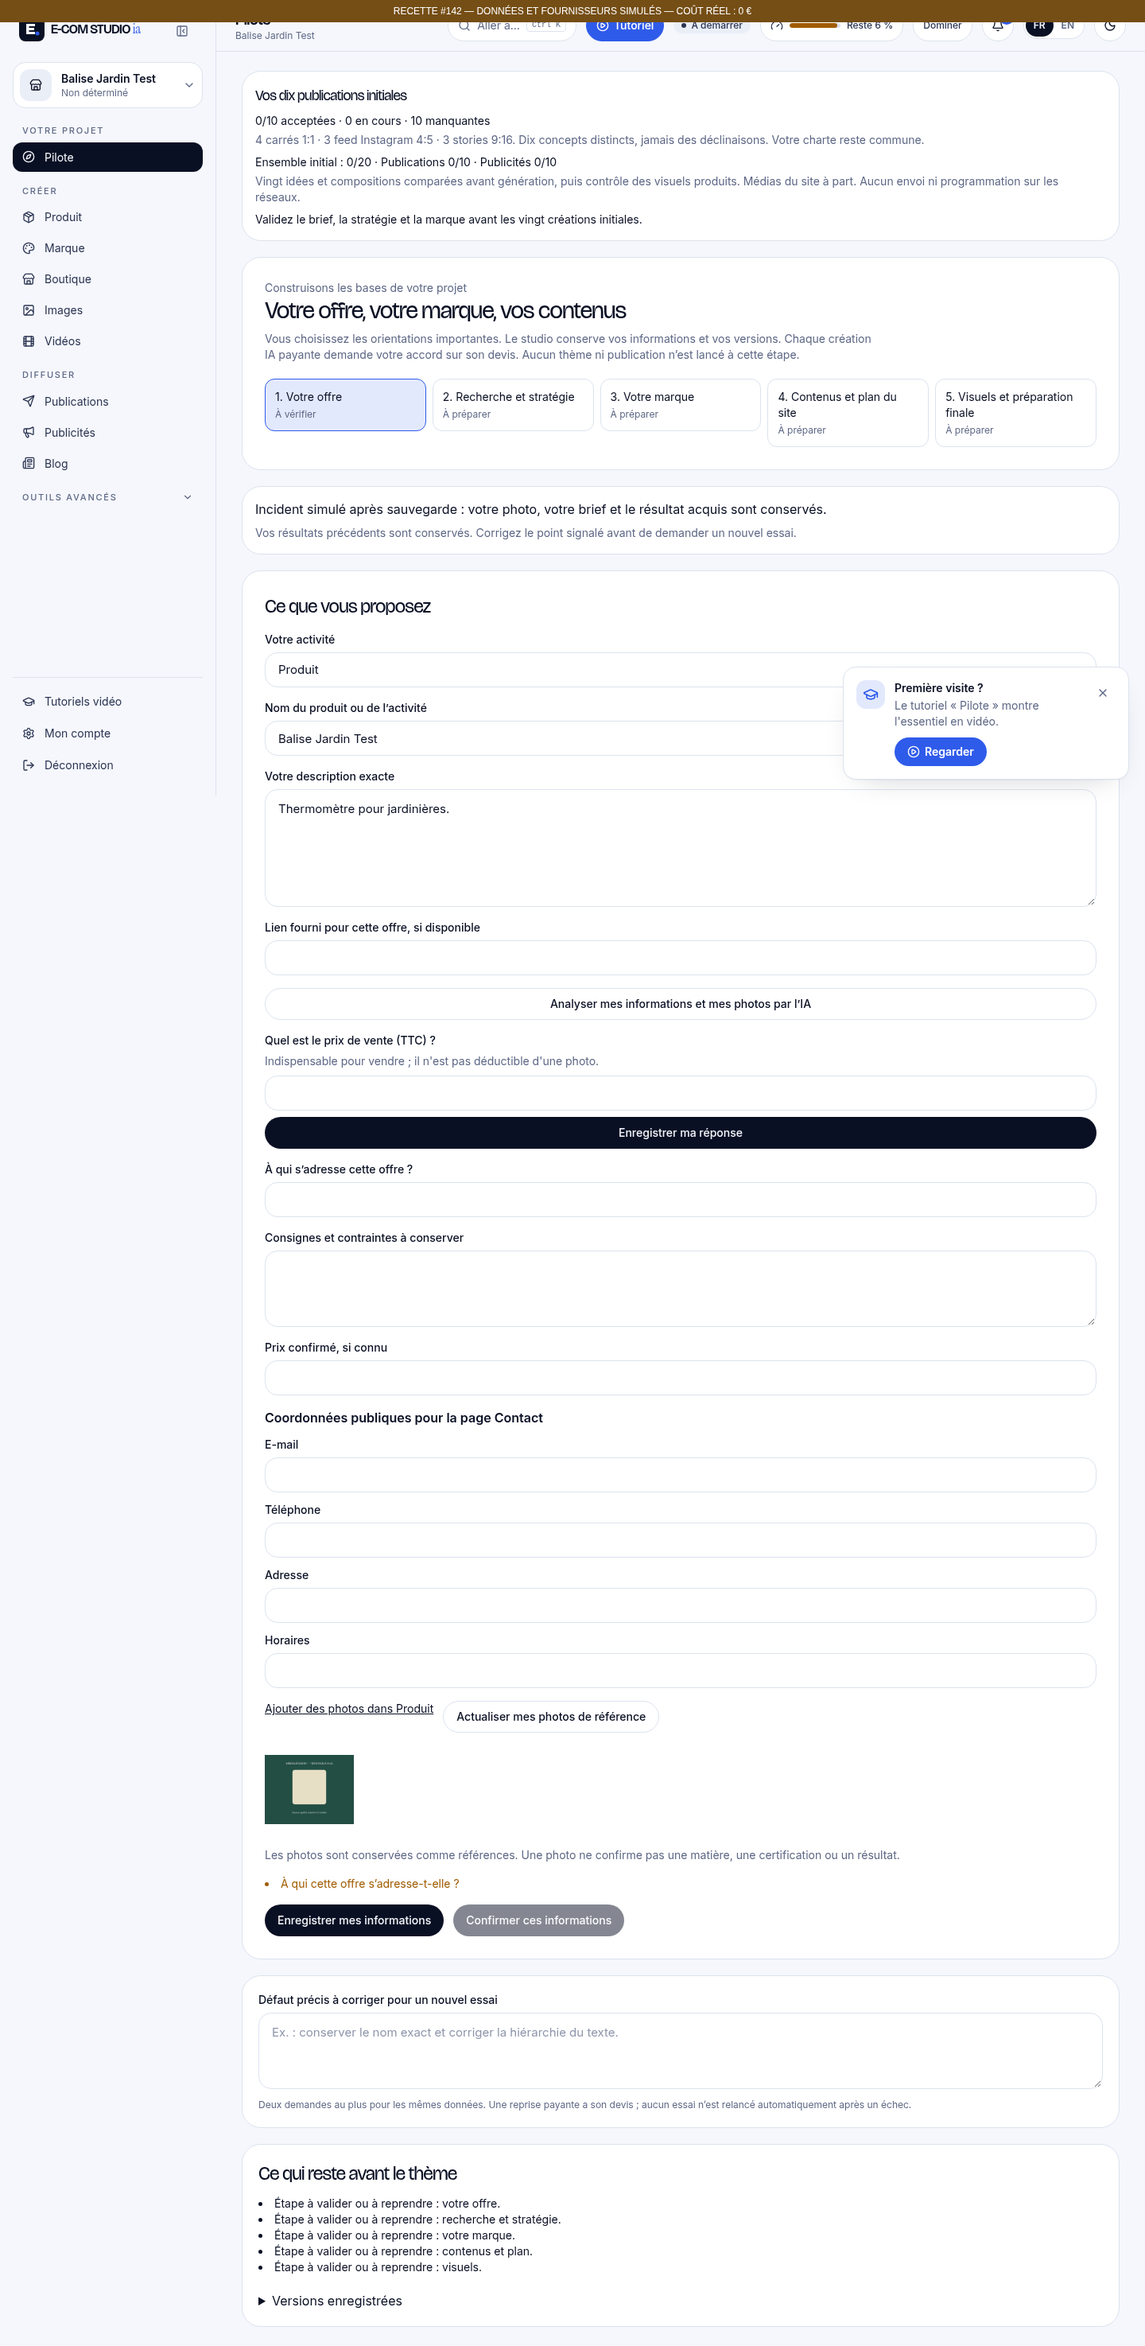
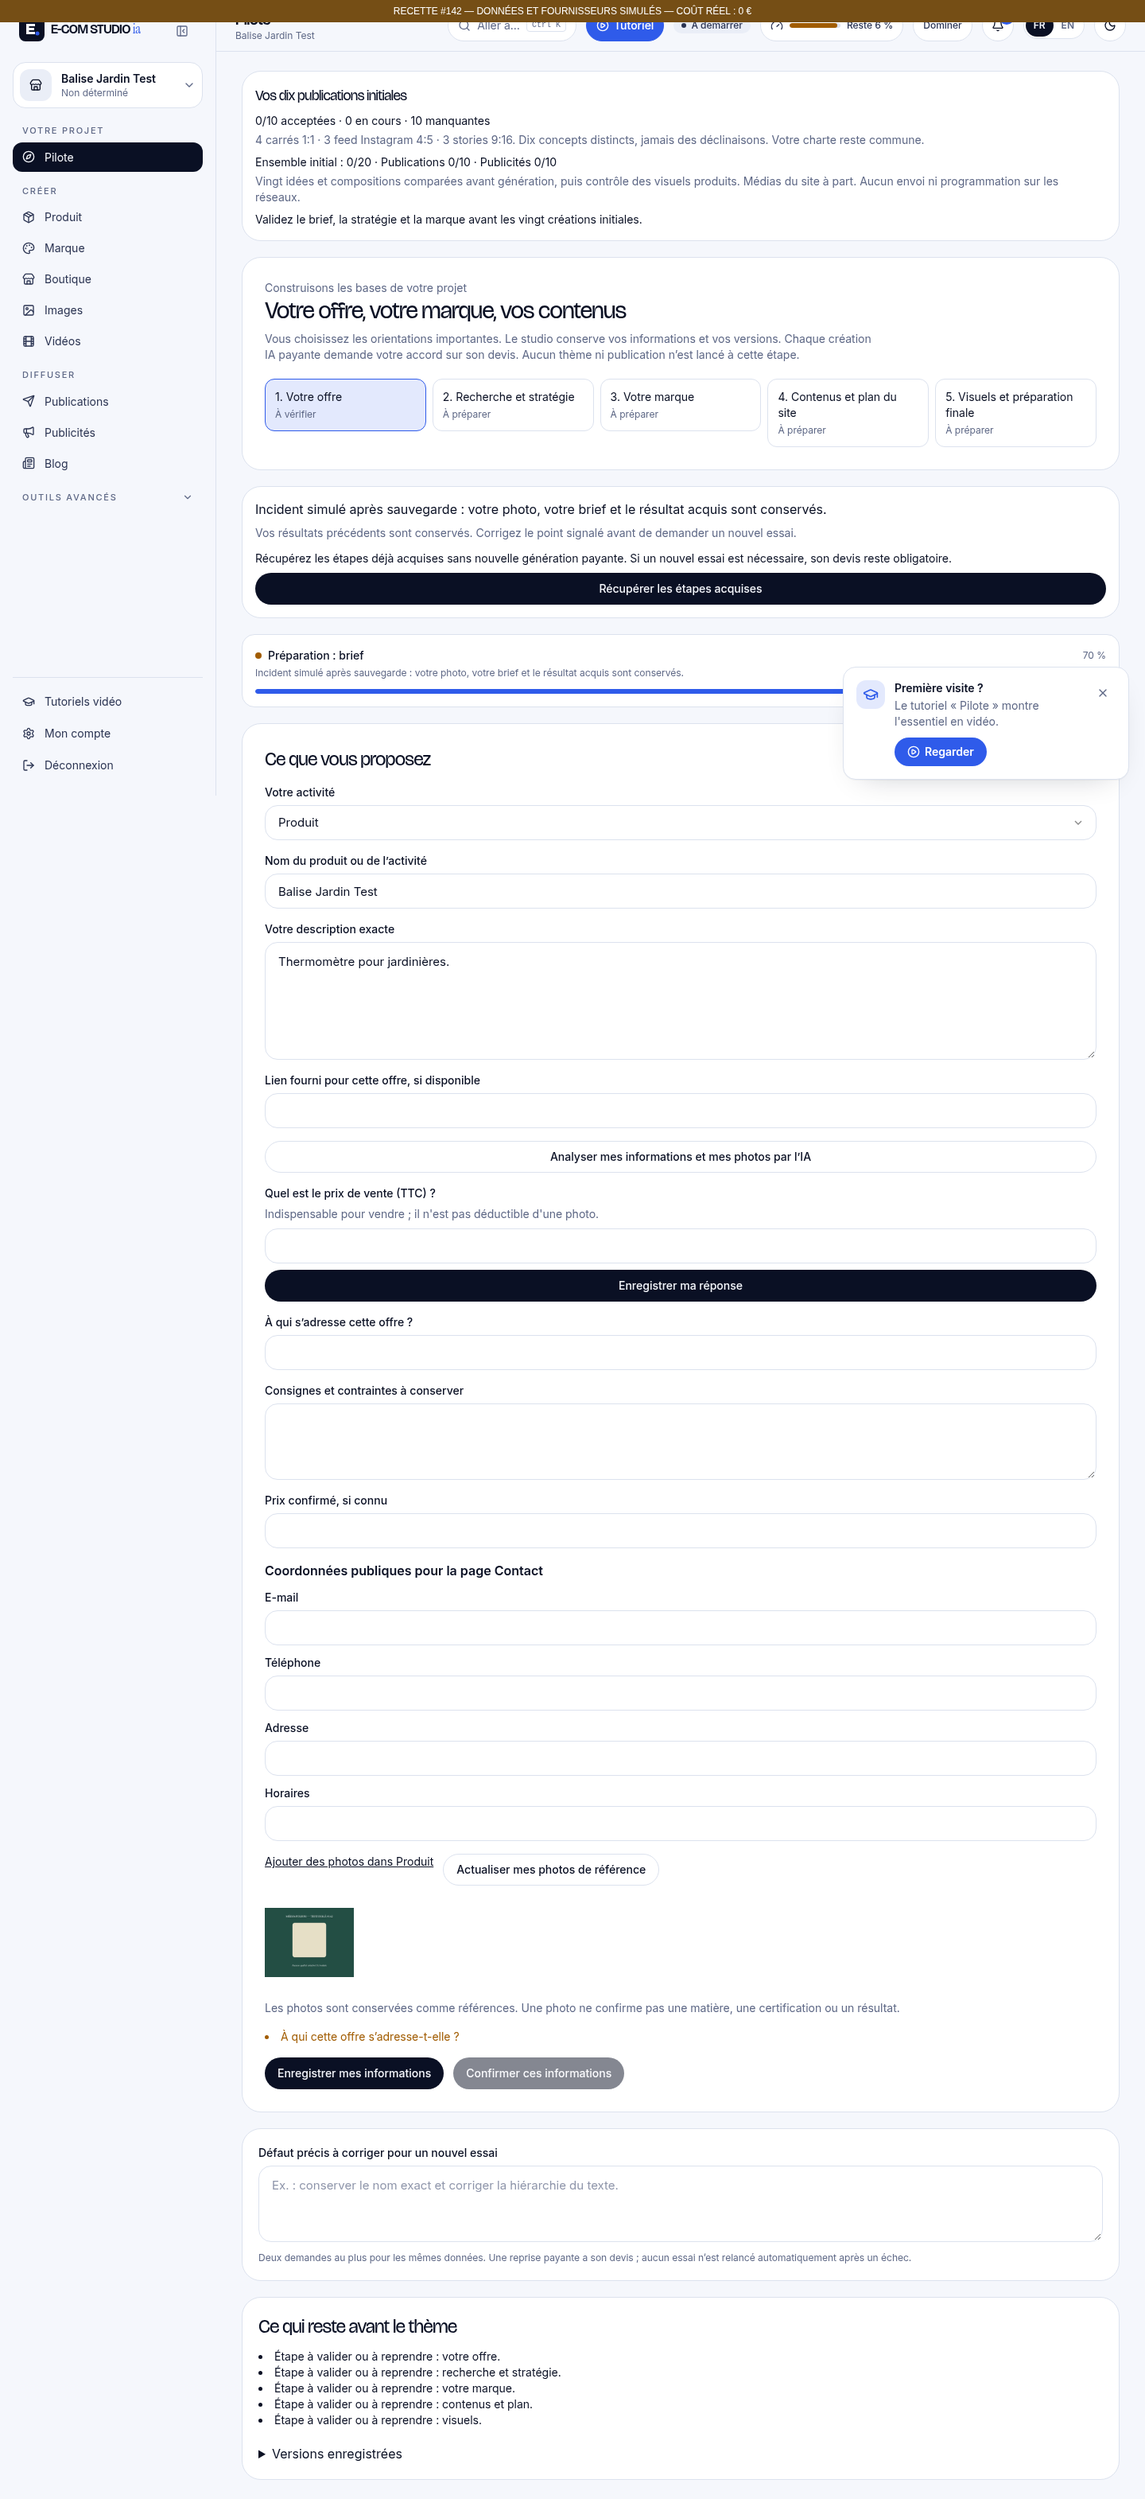
Publier la reprise client vérifiée et cadrer l’audit IA étendu

diff --git a/docs/coordination/ISSUE_142_RESULTATS.md b/docs/coordination/ISSUE_142_RESULTATS.md
@@ -2,11 +2,17 @@
 
 Livraison de corrections sur `codex/142-budgets-suivi-reprise`, sans fusion, déploiement ni mise à jour du Codespace. Mission : [issue #142](https://github.com/spacedevelopment01-max/Ecom-studio-ia/issues/142), confirmée par le [commentaire de coordination de #140](https://github.com/spacedevelopment01-max/Ecom-studio-ia/pull/140#issuecomment-6274653623).
 
+## Extension de mission — état intermédiaire
+
+Le [complément 6287157369](https://github.com/spacedevelopment01-max/Ecom-studio-ia/issues/142#issuecomment-6287157369) demande maintenant la vérification de tous les parcours IA et donne priorité à une publicité image atteignant 100 % sans image livrée. **Le présent rapport valide le volet budgets/préparation/reprise, pas toute la chaîne IA ni cet incident réel.** La matrice fonctionnelle, le diagnostic et les corrections de livraison sont poursuivis sur la même PR #146.
+
+Accès au Codespace retenté le 20 octobre à 09:28 UTC : refus du proxy **CONNECT 403**, avant accès à l’application. Aucun journal de cet incident n’a donc été lu et aucune cause réelle n’est affirmée à partir des simulations. Un diagnostic local, sans relance fournisseur et sans sortie de données privées vers GitHub, est à fournir. La frontière de coordination actuelle est **Claude #145** : sections, quatre thèmes validés, headers/footers et leurs rendus restent hors de ce chantier.
+
 ## Version et frontière d’intégration
 
 - Base : **482d5d3d2f3fa49073d836c23b2453f15ab5046d**, livraison figée de #140. Ce commit n’a pas été déplacé par Codex.
 - Premiers correctifs publiés : **9c4e4f2437414b8ae278e4ad1f4b7d443d79891f**, puis **0591a94d071b79eb9b4659100bc41bc38a343e6c**.
-- Code final testé et construit : **e10847a17d4e14d7e9dd809518449f5e420731c1**. Les commits suivants ne contiennent que la recette, les preuves et ce rapport. PR de livraison : [#146](https://github.com/spacedevelopment01-max/Ecom-studio-ia/pull/146).
+- Code final testé et construit : **8b8f8b0b9b97581061e683f57c990deb077ffbbb**. La réception initiale e10847a1 / 1ac72548 reste conservée dans l’historique. Le complément 8b8f8b0b ferme la reprise depuis l’écran client ; les commits suivants ne modifient que les preuves et ce rapport. PR de livraison : [#146](https://github.com/spacedevelopment01-max/Ecom-studio-ia/pull/146).
 - PR distincte vers `main`. Relevé distant du 20 octobre : `main` = **d97e0b9577128eeb39b403dae281da6bd835fc65**, intégration réalisée par Claude via #144 ; #140 et #139 sont déjà fusionnées. L’ancêtre commun avec cette branche reste **482d5d3d** : le delta de PR contient seulement #142, sans reprise d’une tête Claude ni rebase silencieux. La branche source figée de #140 a été supprimée à distance après intégration ; le commit reste accessible dans la PR et l’historique.
 - Aucun changement dans `theme-base/`, `src/lib/theme/`, les compositions, médias, bibliothèques de sections ou headers/footers. Aucun travail de #141 récupéré. Les quatre thèmes restent sous la responsabilité de Claude.
 
@@ -22,7 +28,7 @@ Les réservations, portefeuilles, prix, traces, checkpoints, baux des workers et
 | `llmText` / `llmJson`, adaptateurs texte et `media-providers.traced` | **REPRODUIT, fournisseurs simulés** : dédupliquer seulement l’imputation ne prévenait pas un deuxième envoi payant ; certaines erreurs serveur libéraient un coût incertain. | Reçu et résultat sur la réservation native ; même requête rejouée depuis le résultat, envoi concurrent bloqué avant fournisseur ; erreur ambiguë conservatrice. Changement de requête sous la même clé refusé explicitement. |
 | Dépôts et téléchargements asynchrones vidéo/image | **REPRODUIT, fournisseurs simulés** : après résultat acquis mais téléchargement perdu, risque de nouveau dépôt ; ancien suivi non limité au compte. | Identifiant d’opération conservé immédiatement, récupération de la même opération sans nouveau POST ni nouvelle réserve, rapprochement du résultat tardif. Prix servi inconnu : arrêt explicite, jamais coût zéro inventé. |
 | `jobs.enqueue`, dépendances, `completeJob`, `JobContext` | **REPRODUIT, simulation isolée** : clé commune entre comptes, dépendance disparue bloquée sans issue, notification répétée, ancien contexte écrivant après arrêt, date de fin conservée à la relance. | Portée compte/projet/type, dépendances invalides expliquées, transition conditionnelle avant notification, contrôle du bail et de l’état, relance avec checkpoints et date cohérente. [Avant](../../reports/issue142/tests/jobs-avant.txt). |
-| Préparation, route GET propriétaire, `tab-preparation`, `JobProgress`, `WaitTime` | **REPRODUIT en tests et navigateur isolé** : retry du même travail invalidé par sa propre révision d’erreur ; spinner et message « en cours » après arrêt ; progression fabriquée par une minuterie. | Reprise du même job/révision inchangée, édition client protégée ; statut réel joint à la préparation ; attente temporelle explicitement estimée, barre seulement si progression enregistrée. `blockers()` distingue pause/arrêt/activité réelle. |
+| Préparation, route GET propriétaire, `tab-preparation`, `JobProgress`, `WaitTime` | **REPRODUIT en tests et navigateur isolé** : retry du même travail invalidé par sa propre révision d’erreur ; spinner et message « en cours » après arrêt ; progression fabriquée par une minuterie. | Reprise du même job/révision inchangée, édition client protégée ; bouton de récupération depuis le client, aucune nouvelle réservation pendant cette action ; statut réel joint à la préparation ; attente temporelle explicitement estimée, barre seulement si progression enregistrée. `blockers()` distingue pause/arrêt/activité réelle. |
 | Budget affiché dans compte et abonnement projet | **REPRODUIT en tests et navigateur isolé** : réserve temporaire présentée comme « 100 % dépensé ». | Montant engagé distinct du montant consommé, message d’attente temporaire. Aucun changement des règles de forfait. |
 | Réécriture SEO volontaire hors job | **REPRODUIT en régression Lot 1** : clé constante réutilisée pour deux réécritures différentes. | Identifiant propre à chaque nouvelle demande explicite ; reprise d’un même job stable. Test vérifie deux acquisitions distinctes et la conservation de la version client. |
 | Mixage local `video-v2/audio.ts` | **REPRODUIT avec FFmpeg réel, sans fournisseur** : musique bouclée pouvait maintenir le démultiplexeur actif malgré le découpage en aval, notamment avec six voix ; worker bloqué. | La première borne d’entrée seule s’est révélée insuffisante en suite complète. Mixage des voix, atténuation de la musique et mix final séparés, fichiers intermédiaires finis en flottant puis supprimés ; durée/signal/niveau/crête contrôlés sans augmenter les délais. La reproduction en étapes a terminé 20 répétitions (environ une seconde chacune). [Comparaison](../../reports/issue142/tests/audio-stages-comparaison.json). |
@@ -46,9 +52,9 @@ Recette réelle de formulaires, routes, SQLite, médias et worker local ; seule 
 - Création, modification et sauvegarde ; fermeture du contexte navigateur puis reconnexion : brief exact et identifiant du média retrouvés.
 - Devis serveur, confirmation, réserve en cours, progression réellement enregistrée à 25 %, affichage du budget temporairement engagé.
 - Produit : incident injecté après résultat acquis. Service : arrêt réel du worker après checkpoint, expiration de son bail dans la base de test, nouveau worker et échec borné visible.
-- Reprise explicite par **l’API propriétaire native**, checkpoints réutilisés, aucune deuxième acquisition ni imputation. Cette recette ne prétend pas avoir testé un nouveau bouton de reprise dans l’interface.
+- Reprise par **un vrai clic sur « Récupérer les étapes acquises »**, dans l’écran de préparation des deux clients. Le bouton est désactivé si des retouches ne sont pas enregistrées ; une révision périmée est refusée (409). Checkpoints réutilisés, aucune deuxième acquisition ni imputation. Le garde serveur `recoveryOnly` interdit toute nouvelle réservation fournisseur, même si une sous-étape tente de retirer cette protection ; les dépendances susceptibles d’être payantes restent bloquées. Un résultat absent nécessite un nouvel essai avec devis, jamais une dépense cachée pendant la récupération.
 - Budget rendu insuffisant dans la fixture : devis refusé par le serveur (HTTP 422), erreur visible sans génération.
-- Depuis l’autre compte : préparation, jobs, abonnement, fichier et détail de job refusés (404), modification/retry également refusé.
+- Depuis l’autre compte : préparation, jobs, abonnement, fichier et détail de job refusés (404), modification/retry et récupération de préparation également refusés.
 - Ordinateur 1440 × 1000 et téléphone 390 × 844 ; absence de débordement horizontal et d’erreur JavaScript. Les détails manquants restent visibles, aucun projet complet annoncé prêt, aucun thème créé.
 
 Résultats machine : [parcours](../../reports/issue142/parcours/results.json) et [registre synthétique](../../reports/issue142/parcours/ledger-public.json). **Deux réservations et deux événements d’usage**, coût synthétique de 40 000 micro par projet (0,04 € fictif), soit **0,08 € synthétique** au total. Les plafonds réservés sont 2 800 000 et 3 400 000 micro. Les instantanés avant réservation, pendant l’engagement, après incident et après retry sont dans `results.json` ; les deux derniers sont strictement identiques. Les soldes mensuels comprennent des consommations préchargées par la fixture pour provoquer les états de budget : ils ne sont pas des dépenses réelles. **Coût fournisseur réellement engagé : 0 €**.
@@ -77,11 +83,12 @@ Commandes réellement exécutées sur le code final, dans l’environnement isol
 | Commande / contrôle | Résultat | Preuve |
 | --- | --- | --- |
 | `npx tsc --noEmit` | Réussi, zéro erreur (également après l’ajustement du script de mesure du devis public) | [Journal](../../reports/issue142/tests/types-final.txt) |
-| `npx vitest run --maxWorkers=2` | **2 405 réussis, 13 ignorés, 313 fichiers réussis**, 992,29 s | [Suite générale](../../reports/issue142/tests/suite-finale.txt) |
+| `npx vitest run --maxWorkers=2` | **2 409 réussis, 13 ignorés, 313 fichiers réussis**, 993,82 s | [Suite générale](../../reports/issue142/tests/suite-finale.txt) |
+| `npx vitest run tests/mission142-billing.test.ts tests/mission142-jobs.test.ts tests/mission142-preparation-reprise.test.ts tests/budget-ia.test.ts tests/taches-fond-robustesse.test.ts --maxWorkers=2` | **66 réussis / 5 fichiers**, acquisition manquante bloquée avant envoi, résultat texte natif réutilisé, garde conservé dans les sous-étapes, dépendances en attente protégées | [Reprise client](../../reports/issue142/tests/reprise-client-66.txt) |
 | `npx vitest run tests/trace-appels.test.ts tests/budget-ia.test.ts --maxWorkers=2` | 36 réussis / 2 fichiers | [Trace et budget](../../reports/issue142/tests/trace-36.txt) |
 | `npx vitest run tests/video-audio-termination.test.ts tests/video-v2-engine.test.ts tests/video-v2-bench.test.ts --maxWorkers=2` | 20 réussis / 3 fichiers | [Rendu réel local](../../reports/issue142/tests/audio-stages-20.txt) |
 | `npx vitest run tests/video-audio-termination.test.ts --maxWorkers=1` | 2 réussis ; 12 mixages, durée, niveau, crête, temporaires supprimés | [Dernier format audio intermédiaire](../../reports/issue142/tests/audio-flottant-2.txt) |
-| `npm run build`, données et clé de recette fictives, réseau fournisseur bloqué par le garde de démarrage | Réussi ; `/api/version` du serveur renvoie le SHA **e10847a1…** | [Construction](../../reports/issue142/tests/build-final.txt), `compiledVersion` du résultat navigateur |
+| `npm run build`, données et clé de recette fictives, réseau fournisseur bloqué par le garde de démarrage | Réussi ; `/api/version` du serveur renvoie le SHA **8b8f8b0b…** | [Construction](../../reports/issue142/tests/build-final.txt), `compiledVersion` du résultat navigateur |
 | `npx tsx scripts/mission142/harness.ts seed`, puis `npx tsx scripts/mission142/browser.ts` | Réussi, deux comptes neufs, deux projets, 20 captures, zéro appel externe réel | [Journal navigateur](../../reports/issue142/tests/navigateur-final.txt), [résultats](../../reports/issue142/parcours/results.json) |
 | `git diff --exit-code 482d5d3d HEAD -- theme-base src/lib/theme public/demo` | Réussi, aucun delta dans ces chemins | [Version et frontière](../../reports/issue142/version.json), [fichiers de code](../../reports/issue142/fichiers-code.txt) |
 
@@ -89,11 +96,11 @@ Autres contrôles ciblés réellement exécutés pendant la stabilisation : [118
 
 Historique explicite : une première suite complète avait 2 404 succès et un échec de l’ancien test de trace (il attendait deux envois sous la même clé). La réémission n’est plus attendue ; la fixture représente maintenant une trace ancienne sans reçu et vérifie l’arrêt avant un deuxième envoi. Le cache avec reçu natif est vérifié séparément. Une suite suivante a retrouvé le blocage audio intermittent, puis a été invalidée par un disque temporaire plein pendant la construction concurrente. Ces lancements ne sont pas annoncés réussis. Des caches Webpack régénérables ont été supprimés, sans supprimer de données/médias/preuves ; le build et la suite ont été relancés. [Historique conservé](../../reports/issue142/tests/historique-suites.txt).
 
-La suite finale ci-dessus s’est terminée avec zéro échec. Les 13 tests ignorés ne sont pas comptés comme validés : 11 nécessitent PHP, absent de cet environnement (`lot2a-php-export`, calendrier de réservation, parité CMS), et 2 sont déjà désactivés dans `films-accueil.test.ts`. Aucun nouveau test ignoré ni délai augmenté pour faire passer cette livraison.
+La première réception complète e10847a1 avait 2 405 succès / 313 fichiers, zéro échec ; le complément de reprise client est contrôlé séparément ci-dessus. Les 13 tests ignorés ne sont pas comptés comme validés : 11 nécessitent PHP, absent de cet environnement (`lot2a-php-export`, calendrier de réservation, parité CMS), et 2 sont déjà désactivés dans `films-accueil.test.ts`. Aucun nouveau test ignoré ni délai augmenté pour faire passer cette livraison.
 
 Un lancement plus ancien avait été refusé par le contrôle automatique d’autorisation à cause d’une limite d’utilisation : il n’avait pas été exécuté. Deux arrêts du script navigateur de réception concernaient ses sélecteurs ou son relevé d’un champ de devis non public ; ils ont été corrigés, puis la recette entière a été rejouée sur des comptes neufs, sans effacer les jeux précédents et sans coût fournisseur.
 
-CI GitHub du code **e10847a1…** : [run 39394144394](https://github.com/spacedevelopment01-max/Ecom-studio-ia/actions/runs/39394144394). Relevé du 20 octobre à 08:47 UTC : **types, suite complète des tests, construction et démarrage Docker réussis** ; Theme Check en cours, build standard pas encore commencé. [Instantané des étapes](../../reports/issue142/tests/ci-code.json). Aucun contrôle restant n’est présenté comme réussi. Les contrôles de la tête contenant seulement la recette et les preuves sont à distinguer de ceux du commit applicatif testé. Le rapprochement `git diff` des fichiers billing, DB, jobs, audio et préparation avec le main déjà intégré ne montre aucun changement concurrent à reprendre ; la PR est annoncée fusionnable par GitHub au relevé, mais aucune fusion n’est lancée.
+CI GitHub du code **8b8f8b0b…** : [run 39398393912](https://github.com/spacedevelopment01-max/Ecom-studio-ia/actions/runs/39398393912). Relevé du 20 octobre à 09:30 UTC : **types, tests complets et Docker réussis** ; Theme Check encore en cours, build standard pas encore commencé. [Instantané des étapes](../../reports/issue142/tests/ci-code.json). Aucun contrôle restant n’est présenté comme réussi. Les contrôles de la tête contenant seulement les preuves sont à distinguer de ceux du commit applicatif testé. Le rapprochement `git diff` des fichiers billing, DB, jobs, audio et préparation avec le main déjà intégré ne montre aucun changement concurrent à reprendre ; la PR est annoncée fusionnable par GitHub au relevé, mais aucune fusion n’est lancée.
 
 Recette reproductible dans un répertoire **neuf** dont le nom commence par `ecs-parcours-test-142-` :
 
